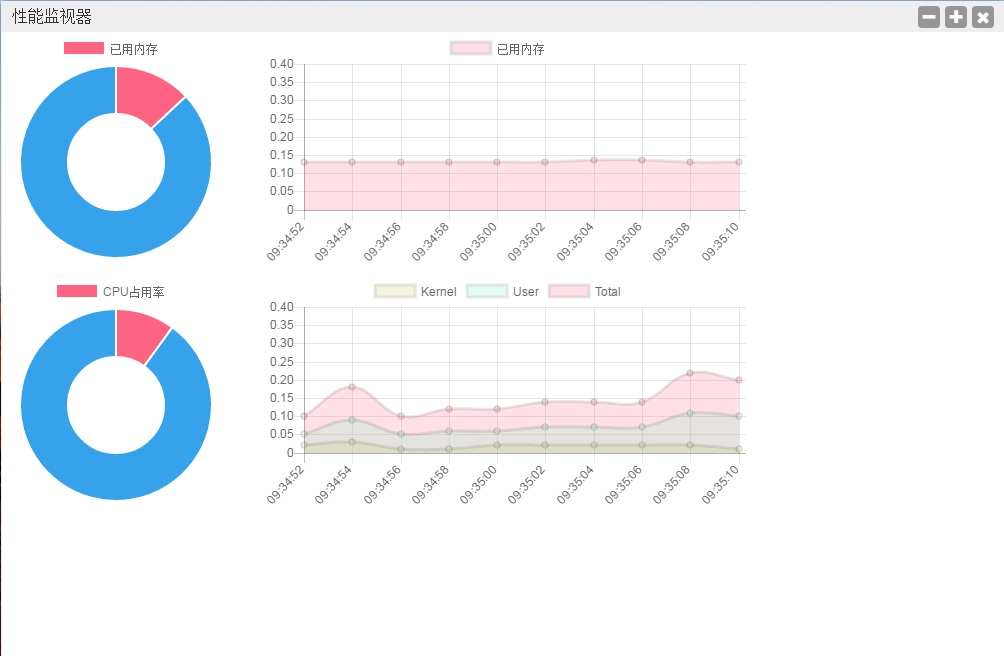
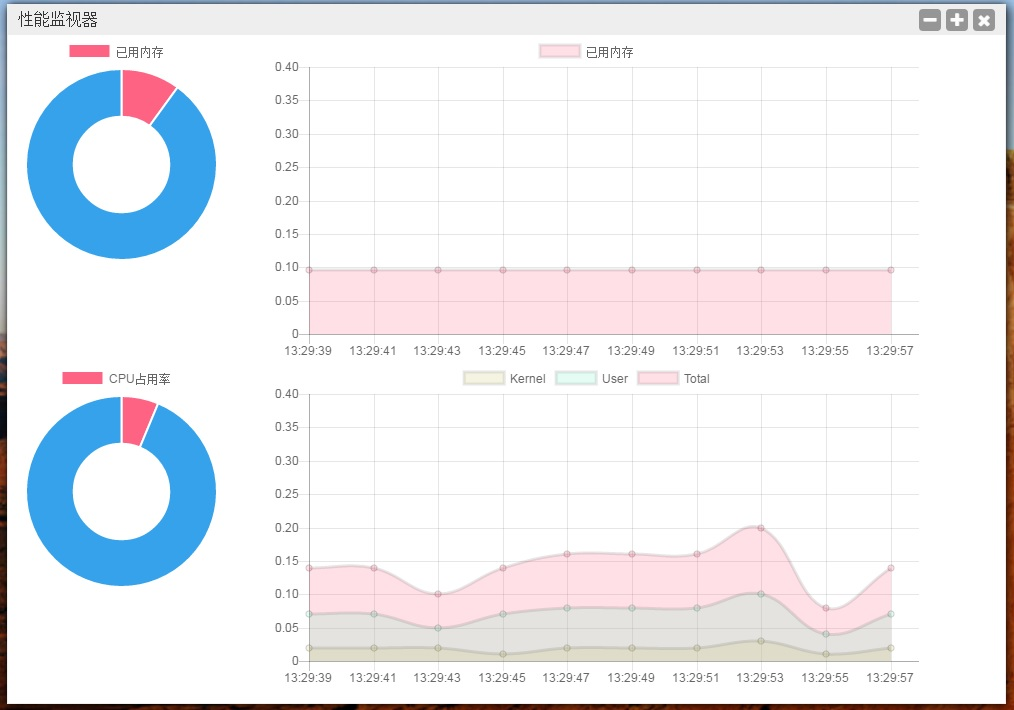
发布作品

diff --git a/main.html b/main.html
@@ -36,19 +36,19 @@
 
 
     <div class="row">
-        <div class="col-md-3 doughnut">
+        <div class="col-md-3 col-lg-2 col-sm-3 col-xs-3 doughnut">
             <canvas id="memoryDoughnut" width="100" height="100"></canvas>
         </div>
-        <div class="col-md-6 line">
+        <div class="col-md-8 col-lg-6 col-sm-8 col-xs-8 line">
             <canvas id="memoryLine" width="400" height="200"></canvas>
         </div>
     </div>
 
     <div class="row">
-        <div class="col-md-3 doughnut">
+        <div class="col-md-3 col-lg-2 col-sm-3 col-xs-3 doughnut">
             <canvas id="cpuDoughnut" width="100" height="100"></canvas>
         </div>
-        <div class="col-md-6 line">
+        <div class="col-md-8 col-lg-6 col-sm-8 col-xs-8 line">
             <canvas id="cpuLine" width="400" height="200"></canvas>
         </div>
     </div>

diff --git a/script/background.js b/script/background.js
@@ -9,8 +9,10 @@ chrome.app.runtime.onLaunched.addListener(function() {
     chrome.app.window.create('main.html', {
         id: 'main',                 //窗口id
         innerBounds: {              //窗口内嵌入页面的显示尺寸(不包括标题栏等)
-            width: 800,
-            height: 600
+            width: 1000,
+            height: 550,
+            minWidth: 750,
+            minHeight:520
         },
         resizable: false,           //不希望用户调整窗口尺寸
         frame: 'none'              //新建的窗口不显示标题栏
